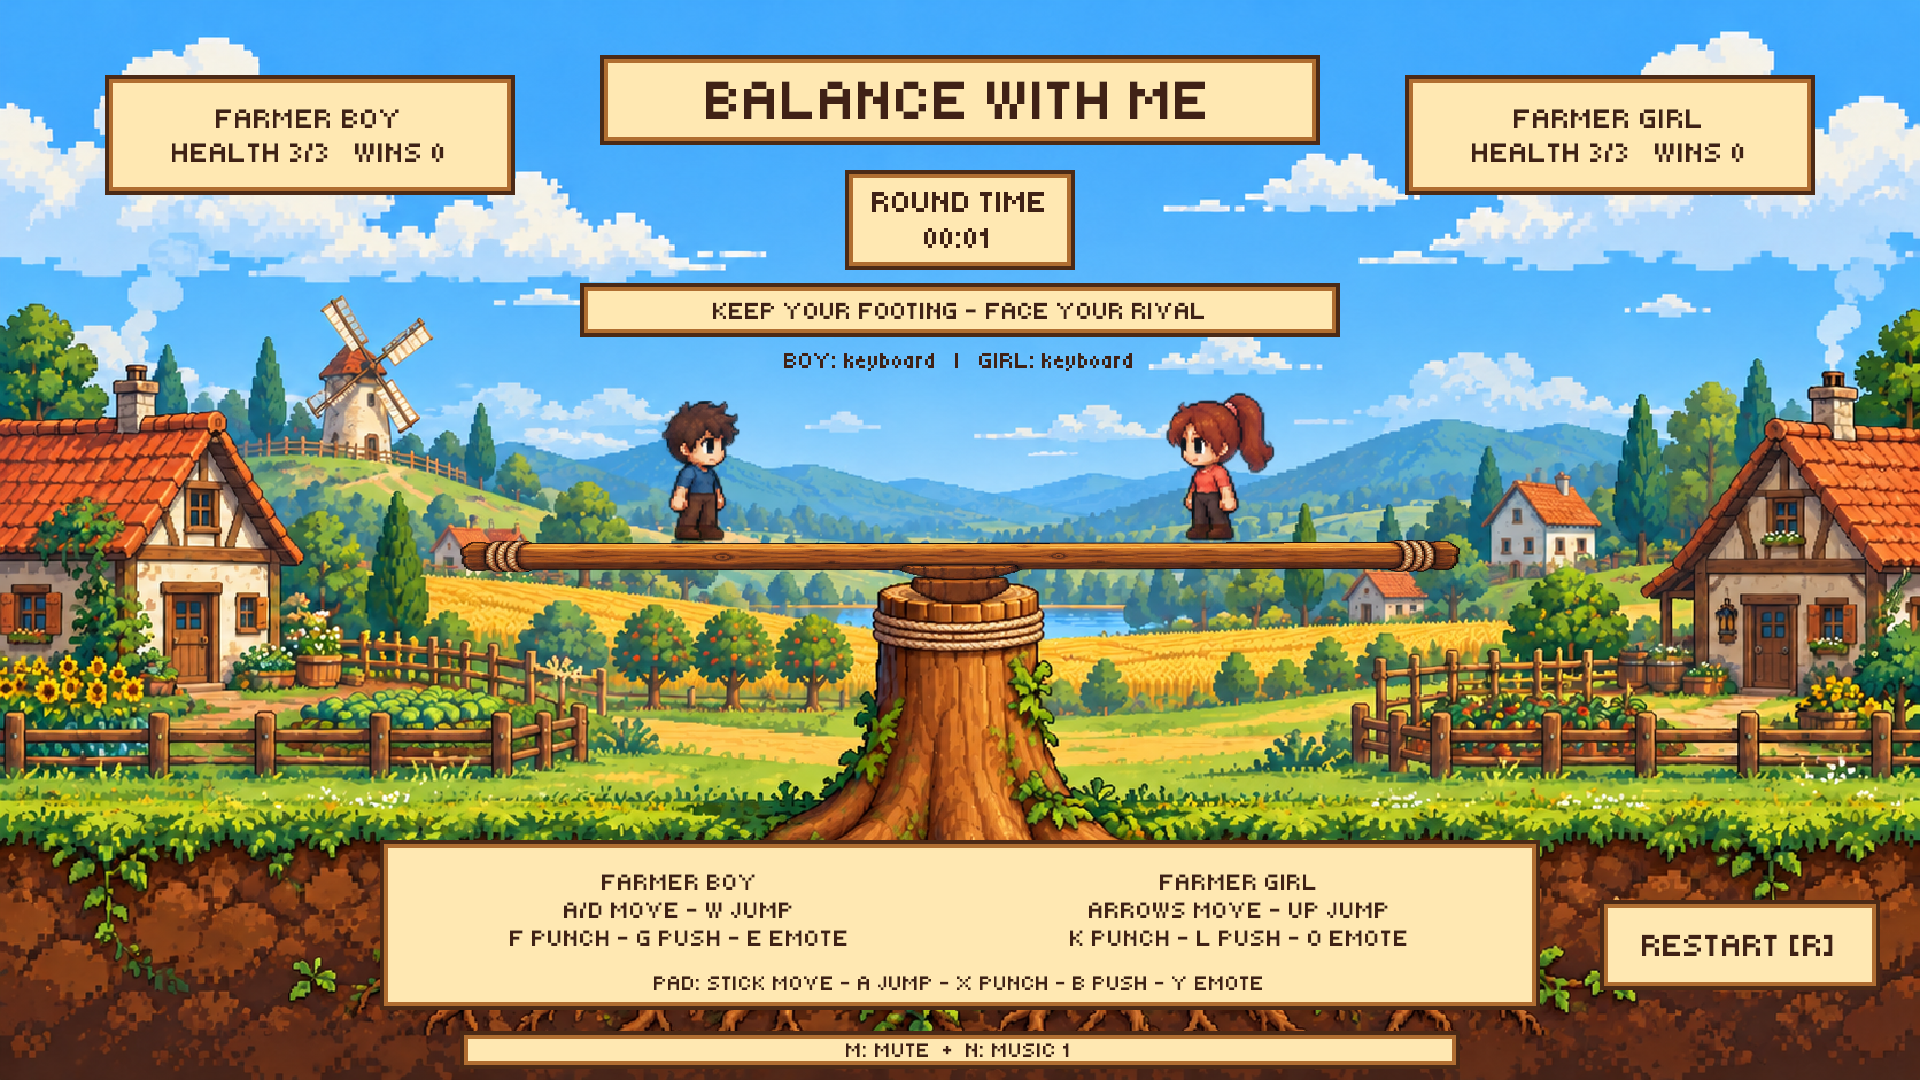
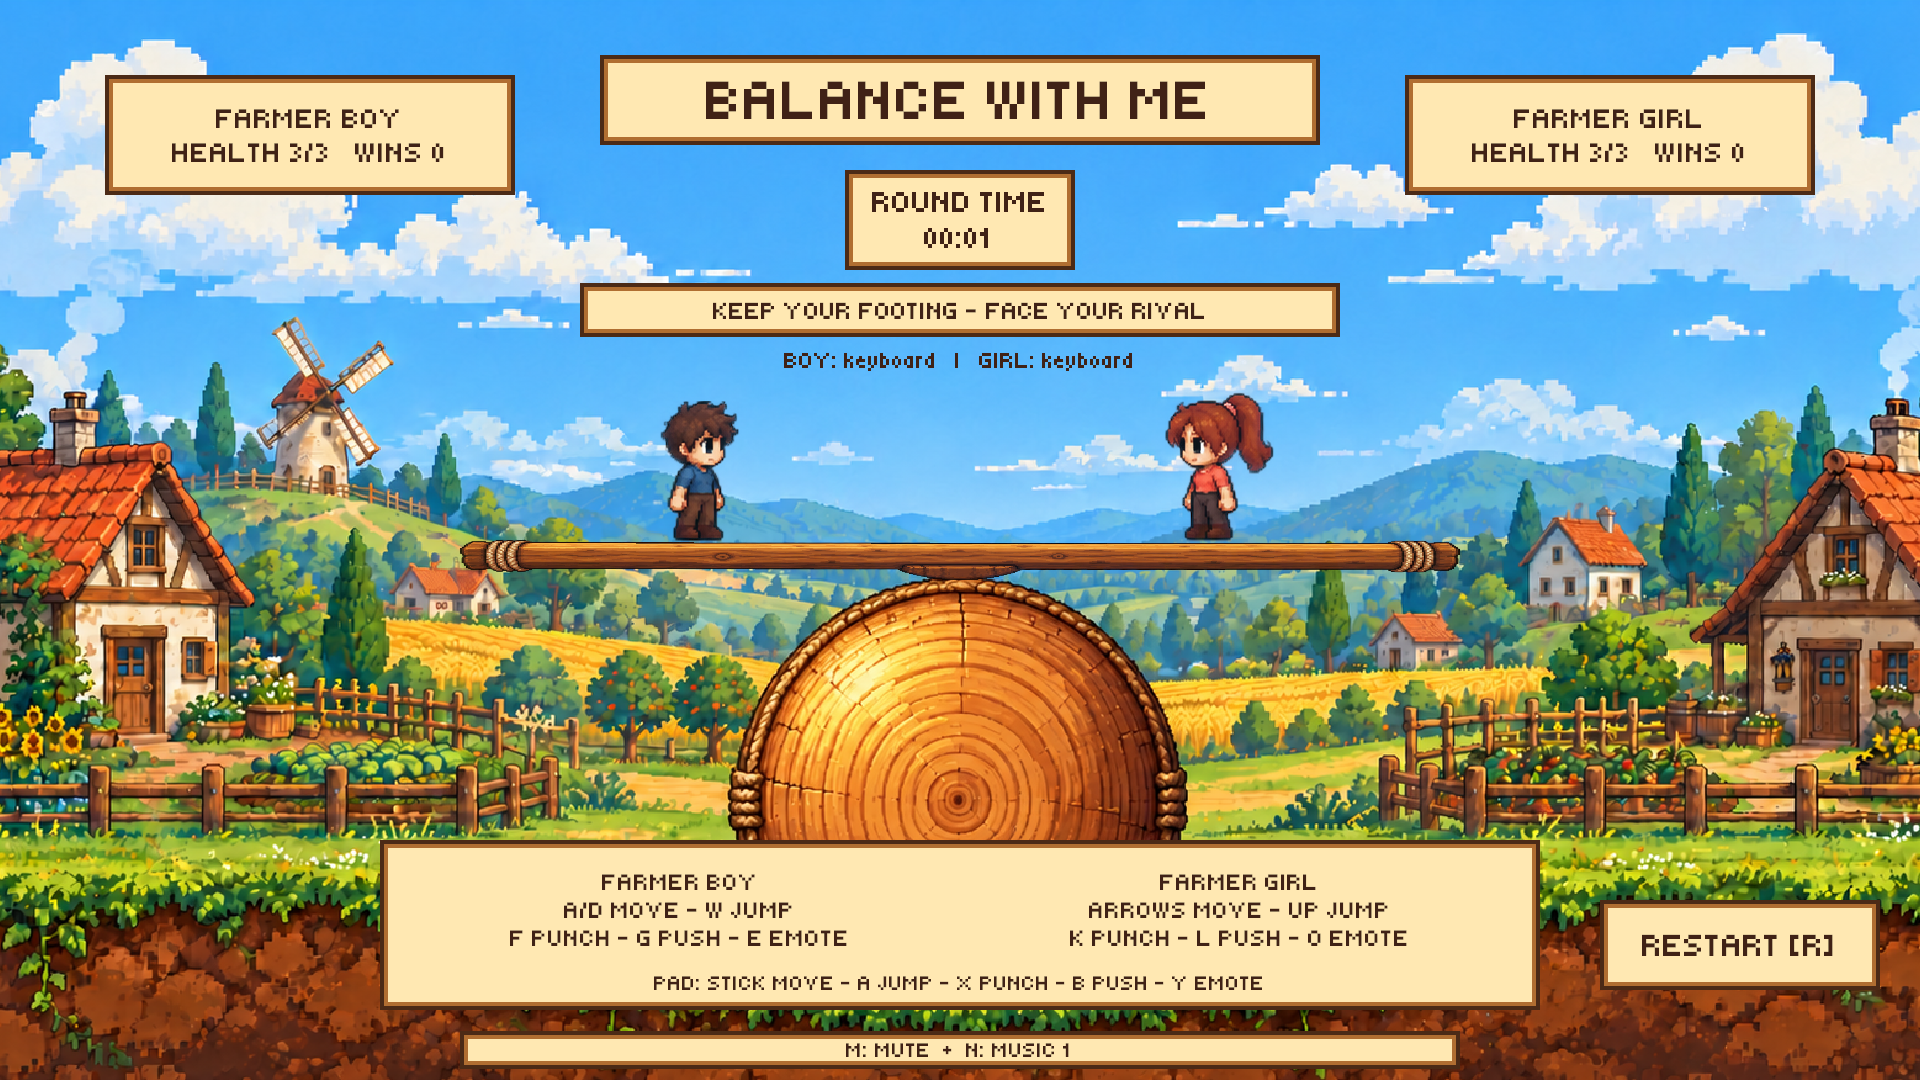
Replace tree trunk with round wooden fulcrum and refresh game layout

diff --git a/Assets/Editor/PlayableSceneBuilder.cs b/Assets/Editor/PlayableSceneBuilder.cs
@@ -33,7 +33,7 @@ namespace BalanceWithMe.Editor
             camera.tag = "MainCamera"; camera.transform.position = new Vector3(0, 0, -10);
             var cam = camera.GetComponent<Camera>(); cam.orthographic = true; cam.orthographicSize = 5.4f;
             cam.backgroundColor = new Color(.4f,.7f,1);
-            const string backgroundPath = "Assets/Art/Backgrounds/farm_village_tree.png";
+            const string backgroundPath = "Assets/Art/Backgrounds/farm_village_wood_ball.png";
             var backgroundImporter = (TextureImporter)AssetImporter.GetAtPath(backgroundPath);
             backgroundImporter.textureType = TextureImporterType.Sprite;
             backgroundImporter.spriteImportMode = SpriteImportMode.Single;
@@ -43,8 +43,9 @@ namespace BalanceWithMe.Editor
             backgroundImporter.maxTextureSize = 4096;
             backgroundImporter.SaveAndReimport();
             Sprite bg = AssetDatabase.LoadAllAssetsAtPath(backgroundPath).OfType<Sprite>().First();
-            var background = Render("Farmer Village and Rooted Tree", bg, new Vector2(0,0), -10);
-            background.transform.localScale = new Vector3(19.2f / bg.bounds.size.x, 10.8f / bg.bounds.size.y, 1);
+            var background = Render("Farmer Village and Wooden Ball", bg, new Vector2(0,-.4f), -10);
+            // Uniform overscan keeps the wooden fulcrum round and seats its top under the plank.
+            background.transform.localScale = Vector3.one * (11.6f / bg.bounds.size.y);
             var plankSprite = ImportPlank();
             var board = new GameObject("Balancing Plank", typeof(Rigidbody2D), typeof(BoxCollider2D), typeof(HingeJoint2D));
             board.transform.position = new Vector3(0,-.2f,0);

diff --git a/README.md b/README.md
@@ -1,10 +1,10 @@
 # Balance with me
 
-A local two-player 2D pixel-art game made with Unity and VS Code. A chibi boy and girl share a plank above a rooted tree in a farming village. Use a shared keyboard, two gamepads, or a mixed setup. Walk, jump, punch, and push your opponent: keep your footing and knock the other player off, or land three punches to win.
+A local two-player 2D pixel-art game made with Unity and VS Code. A chibi boy and girl share a plank above a round wooden fulcrum in a farming village. Use a shared keyboard, two gamepads, or a mixed setup. Walk, jump, punch, and push your opponent: keep your footing and knock the other player off, or land three punches to win.
 
-<p align="center"><img src="Docs/gameplay_layout.png" alt="Full desktop game layout: two players on a balancing plank above a rooted tree in a farming village" width="960"></p>
+<p align="center"><img src="Docs/gameplay_layout.png" alt="Full desktop game layout: two players on a balancing plank above a round wooden fulcrum in a farming village" width="960"></p>
 
-> Full 16:9 layout captured from the Unity scene. The plank and rope-wrapped tree fulcrum share honey-brown timber, matching rope bindings and a centered wooden bearing; farmhouses, fields and a windmill frame the central play area. Character sprite sheets are kept in the project assets and are not displayed in this README.
+> Full 16:9 layout captured from the Unity scene. The plank and circular wooden-log fulcrum share honey-brown timber, matching rope details and visible woodgrain; farmhouses, fields and a windmill frame the central play area. Character sprite sheets are kept in the project assets and are not displayed in this README.
 
 ## Download & play
 
@@ -30,7 +30,7 @@ Source: **[Tinenen-cs/Balance-with-me](https://github.com/Tinenen-cs/Balance-wit
 | Hit reaction | Brief stun and red flash; movement cannot immediately cancel knockback | `PlayerActions.Receive` | Stun/knockback tests |
 | Win and restart | Opponent reaches zero health or falls below the board; R/button resets the round | `BalanceGame` | Falling and restart tests |
 
-The plank is a Rigidbody2D hinged at its center with ±16° limits and a gentle centering torque. The plank is supported visually by a centered tree trunk whose roots reach into the foreground land. The support is stationary.
+The plank is a Rigidbody2D hinged at its center with ±16° limits and a gentle centering torque. The plank is supported visually by a centered circular wooden log resting on the foreground land. The support is stationary.
 
 ### Recording the video (about 2 minutes)
 
@@ -68,7 +68,7 @@ The plank is a Rigidbody2D hinged at its center with ±16° limits and a gentle 
 - **Wood-and-parchment UI**, Tiny5 pixel lettering and a matching restart sign fit the farming-village design.
 - **Physics scene:** player Rigidbody2Ds and capsule colliders on a hinged plank.
 - **32 original animation frames** used for idle, walk, jump and hurt, plus programmatic combat hand effects.
-- **Desktop 16:9 farming village** with farmhouses, fields, clouds, a windmill and a rooted tree supporting the plank.
+- **Desktop 16:9 farming village** with farmhouses, fields, clouds, a windmill and a round wooden fulcrum supporting the plank.
 - **Original source retained:** `CharacterController2DP2.bin` is unchanged; the active controller uses Unity 6 `linearVelocity` instead of deprecated `velocity`. Companion scripts were added after the user authorized new code.
 
 ## Controls
@@ -113,9 +113,9 @@ Click the Game view to give it keyboard focus. Attack while facing the other pla
 
 ## Screen layout
 
-Desktop **16:9**, with a camera showing 19.2 × 10.8 world units and a **1920 × 1080** UI Canvas reference. The boy and girl begin at opposite ends of the rope-bound plank; its central saddle meets the rooted tree. Parchment player scorecards, a title sign, a round clock and a notice board sit above gameplay. Controls, audio status and the restart sign sit below it.
+Desktop **16:9**, with a camera showing 19.2 × 10.8 world units and a **1920 × 1080** UI Canvas reference. The boy and girl begin at opposite ends of the rope-bound plank; its central saddle meets the circular wooden support. Parchment player scorecards, a title sign, a round clock and a notice board sit above gameplay. Controls, audio status and the restart sign sit below it.
 
-Desktop defaults are a resizable 1920 × 1080 window; browser defaults are 1280 × 720. Select **16:9** or **Desktop 1920 × 1080** manually in Unity's Game view. The farming-village background is landscape artwork sized to fill the world view.
+Desktop defaults are a resizable 1920 × 1080 window; browser defaults are 1280 × 720. Select **16:9** or **Desktop 1920 × 1080** manually in Unity's Game view. The farming-village background uses uniform overscan to fill the view, preserve the round wooden fulcrum’s proportions and align its top with the plank.
 
 ## Unity version and packages
 
@@ -131,7 +131,7 @@ Assets/
   Art/
     Characters/two_players.png     original character sheet
     Characters/Generated/          shared unlit sprite material
-    Backgrounds/farm_village_tree.png  farmer village and rooted tree fulcrum
+    Backgrounds/farm_village_wood_ball.png  village and round wooden fulcrum
     Props/farm_balance_plank.png     rustic rope-bound plank and central saddle
     Fonts/Tiny5.ttf                pixel font, with SIL OFL license
     UI/pixel_hand.png               native pixel hand effect
@@ -185,7 +185,7 @@ Use **M** or the gamepad Select/View button to mute all sound; the setting is sa
 
 | Asset | Source | License / attribution |
 | --- | --- | --- |
-| Characters, farmer village, rooted tree and farm plank | Original images generated for this project using built-in imagegen | Prompts recorded in `Docs/generation_prompts.json`; no separate asset license assigned |
+| Characters, farmer village, wooden fulcrum and farm plank | Original images generated for this project using built-in imagegen | Prompts recorded in `Docs/generation_prompts.json`; no separate asset license assigned |
 | Tiny5 pixel font | [Tiny5 via Google Fonts](https://github.com/google/fonts/tree/main/ofl/tiny5), The Tiny5 Project Authors | SIL Open Font License 1.1; `Assets/Art/Fonts/Tiny5-OFL.txt` |
 | Project and URP configuration | Official Unity 2D template from the installed editor | Unity-provided configuration |
 | CharacterController2DP2 | User-supplied original retained as `.bin`; active `.cs` updated for Unity 6 APIs | Redistribution license not provided |

diff --git a/Docs/ASSET_GUIDE.md b/Docs/ASSET_GUIDE.md
@@ -1,18 +1,12 @@
-# Asset guide
+# Current asset guide
 
-- `Assets/Art/Characters/two_players.png`: transparent PNG, 1254 × 1254; four columns and eight rows. Rows top-to-bottom: boy idle, walk, jump, hurt; girl idle, walk, jump, hurt. Four frames per action.
-- `Assets/Art/Backgrounds/clouds_green_land.png`: opaque PNG, 941 × 1672.
-- `Assets/Art/Props/platform_ball.png`: transparent PNG, 1774 × 887.
-- `Docs/layout_preview.png`: generated composition reference, not a gameplay capture.
+- `Assets/Art/Characters/two_players.png`: original transparent 1254 × 1254 sheet. Four frames each for boy idle/walk/jump/hurt, then girl idle/walk/jump/hurt. Native importer Sprite subassets are alpha-trimmed by PlayableSceneBuilder.
+- `Assets/Art/Backgrounds/farm_village_wood_ball.png`: farming village with a circular wooden-log fulcrum, warm woodgrain and rope detail. Replaces the former trunk and roots. Uniform overscan preserves the round shape and aligns the support with the plank.
+- `Assets/Art/Props/farm_balance_plank.png`: transparent rustic plank, rope-bound ends and a central wooden saddle.
+- `Assets/Art/UI/pixel_hand.png`: native pixel hand effect used for punch/push feedback.
+- `Assets/Art/Fonts/Tiny5.ttf`: pixel font under SIL OFL 1.1; license alongside the font.
+- `Assets/Audio/Music`: two original background loops.
+- `Assets/Audio/SFX`: ten action, hit, emote and round cues.
+- `Docs/gameplay_layout.png`: current full scene captured inside Unity; the README displays this image only.
 
-Sprite import metadata is included. Use Point filtering, no mipmaps, and uncompressed textures. Inspect generated slices and pivots in Sprite Editor; grid dimensions are uneven. PlayerActions selects the existing animation frames. PlayableSceneBuilder configures native importer Sprite subassets for the character frames and farm plank, and keeps simple hand effects/material in Characters/Generated. Source PNGs are unchanged. Dedicated punch/push sprite-sheet frames are not included. Artwork was generated with built-in imagegen; prompts are in `generation_prompts.json`.
-
-- `Assets/Art/Backgrounds/farm_village_tree.png`: new original landscape village, centered tree trunk and visible roots. This replaces the old background in Main. The original ball artwork is retained as source history but no ball is rendered.
-- `Docs/gameplay_layout.png`: current full desktop scene captured in Unity; this is the README image.
-
-- `Assets/Art/Props/farm_balance_plank.png`: original transparent rustic plank with rope-bound ends and a small central saddle matching the tree fulcrum.
-- Tiny5 font: SIL OFL 1.1, license alongside the font in Assets/Art/Fonts.
-
-## Matched wood refinement
-
-The current farm_village_tree.png uses simplified honey/chestnut wood, dark pixel outlines, rope wraps and a central bearing cap matched to farm_balance_plank.png. The village placement and exposed roots remain unchanged. Updated full-scene preview: Docs/gameplay_layout.png. Edit prompt and built-in imagegen provenance: Docs/generation_prompts.json.
+Art was generated or edited with built-in imagegen. Prompts are saved in `Docs/generation_prompts.json`. Source textures retain Point filtering and uncompressed sprite settings. Dedicated punch/push animation-sheet poses remain future polish; current combat uses existing frames and hand effects.

diff --git a/Docs/VALIDATION.md b/Docs/VALIDATION.md
@@ -21,7 +21,7 @@ Verified editor: **Unity 6000.3.26f1**. Recorded reference patch: **6000.3.24f1*
   13. Background music actively plays and loops; both happy/sad emote jingles and track switching work.
   14. Punch-hit, restart and win reactions select their audio cues.
 - All twelve synthesized audio files were checked as nonempty 24 kHz, mono, 16-bit PCM WAVs.
-- A graphical Unity Editor render was inspected at 1920 × 1080: both characters are visible; the rope-bound plank and saddle meet the rooted tree; farming-village scenery, parchment scorecards, timer, controls and restart sign render together.
+- A graphical Unity Editor render was inspected at 1920 × 1080: both characters are visible; the rope-bound plank and saddle meet the circular wooden fulcrum; farming-village scenery, parchment scorecards, timer, controls and restart sign render together.
 - Native importer Sprite subassets replaced the earlier serialized generated character sprites after the graphical review revealed missing character rendering.
 - README embeds only the full game layout, and its local links and Markdown fences were checked.
 - Original CharacterController2DP2.bin remains byte-identical to the uploaded original. The active controller has authorized Unity 6 API updates plus a read-only grounding property for jump audio.
@@ -39,6 +39,10 @@ Headless input tests temporarily adjust and then restore Input System focus sett
 3. Run Window → General → Test Runner → PlayMode → Run All.
 4. Capture Full Layout updates Docs/gameplay_layout.png inside the Editor without building an app.
 
-## Final matched-wood check
+## Previous matched-wood check
 
 The trunk was refined to match the plank’s honey/chestnut wood, rope bindings and dark outlines, retaining the farming-village layout. The regenerated 1920 × 1080 full-scene image was visually inspected. All twelve WAV files have nonzero sample peaks and RMS energy; no silent or empty audio files were found. The 14-test suite passed on Unity 6000.3.26f1 after the artwork update.
+
+## Current wooden-ball fulcrum
+
+The upright trunk and roots have been replaced by a circular wooden-log support. The background was renamed to farm_village_wood_ball.png with its Unity asset GUID preserved. Uniform overscan aligns the round support with the existing plank and preserves its shape. The refreshed full-scene image was captured in the Unity Editor and visually inspected. Audio sources and gameplay controls are retained; all twelve WAVs were rechecked as nonempty and non-silent.

diff --git a/Docs/DEVELOPMENT.md b/Docs/DEVELOPMENT.md
@@ -43,3 +43,9 @@ Character frames and the new farm plank are now imported as native Unity Sprite 
 ## Matched platform and fulcrum
 
 The stump material and palette now match the movable farm plank: honey/chestnut wood, golden highlights, clean outlines, matching rope wraps and a small bearing cap. Only background artwork changed; combat, controls and board physics are retained. Audio verification additionally checks active looping playback, both emote jingles, hit reactions and round-result cues.
+
+## Current fulcrum: round wooden log
+
+The upright trunk and roots are replaced by a circular wooden log/ball silhouette in the village background. The support retains the plank’s warm timber palette, rope detail and woodgrain. It is a stationary visual fulcrum for the existing hinged plank, not a free-rolling physics ball. Earlier trunk notes describe previous artwork revisions. The current background is farm_village_wood_ball.png.
+
+The round wooden support is positioned using uniform background overscan (11.6 world-unit height, y=-0.4) so it retains its circular proportions and meets the existing plank without altering player physics. The scene and scene-builder settings match.
